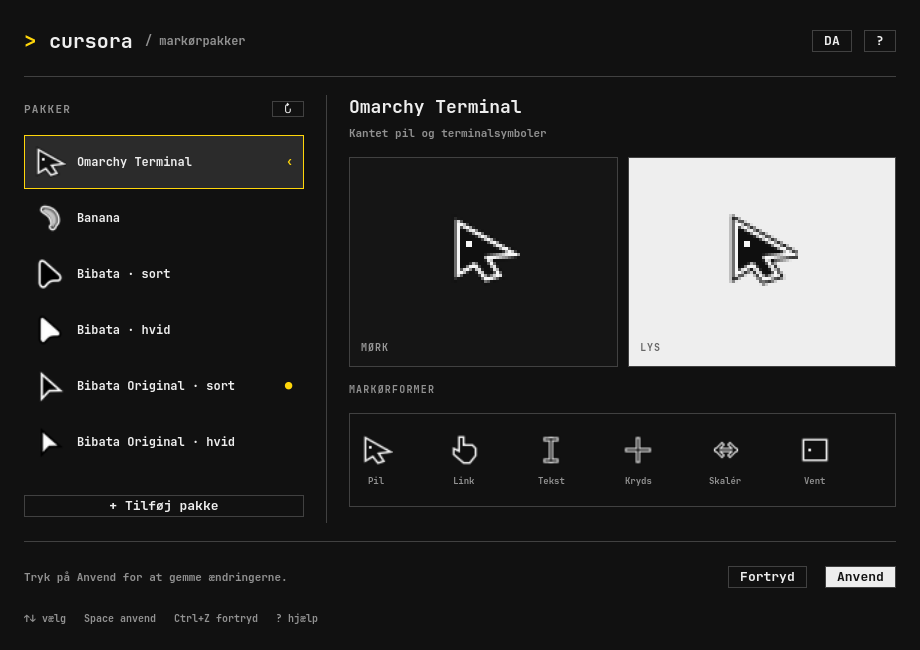
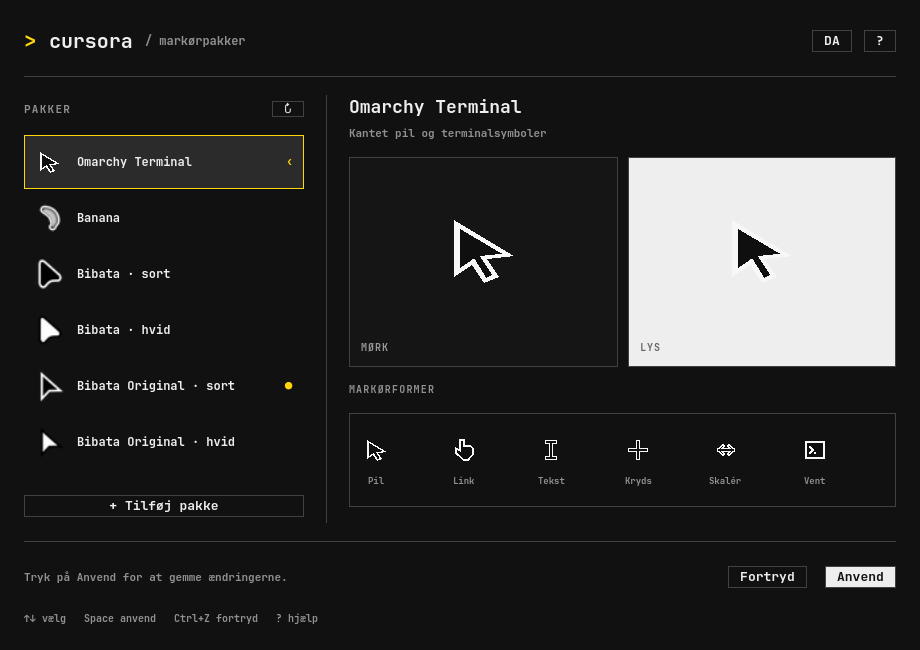
Sharpen Omarchy Terminal cursor outlines

diff --git a/src/Main.qml b/src/Main.qml
@@ -25,6 +25,7 @@ ApplicationWindow {
 
     function titleFor(id) { return (translator.language, backend.themeTitle(id)); }
     function descriptionFor(id) { return (translator.language, backend.themeDescription(id)); }
+    function isTerminalPack(id) { return id === "Cursora-Omarchy-Terminal"; }
     function applySelection() {
         if (busy || themeList.count === 0) return;
         busy = true;
@@ -176,7 +177,8 @@ ApplicationWindow {
                                 Image {
                                     Layout.preferredWidth: 32; Layout.preferredHeight: 32
                                     source: backend.preview(row.modelData.id, "left_ptr", row.modelData.nativeSize)
-                                    fillMode: Image.PreserveAspectFit
+                                    fillMode: win.isTerminalPack(row.modelData.id) ? Image.Pad : Image.PreserveAspectFit
+                                    smooth: !win.isTerminalPack(row.modelData.id)
                                 }
                                 Label {
                                     text: win.titleFor(row.modelData.id)
@@ -228,12 +230,13 @@ ApplicationWindow {
                                 Image {
                                     anchors.centerIn: parent
                                     anchors.verticalCenterOffset: -12
-                                    readonly property int magnification: Math.max(1, Math.min(3,
+                                    readonly property int magnification: win.isTerminalPack(backend.selected) ? 1 : Math.max(1, Math.min(3,
                                         Math.floor((parent.height - 40) / Math.max(1, implicitHeight)),
                                         Math.floor((parent.width - 16) / Math.max(1, implicitWidth))))
                                     width: implicitWidth * magnification
                                     height: implicitHeight * magnification
-                                    source: backend.preview(backend.selected, "left_ptr", backend.themeSize(backend.selected))
+                                    source: backend.preview(backend.selected, "left_ptr", backend.themeSize(backend.selected)
+                                        * (win.isTerminalPack(backend.selected) ? 3 : 1))
                                     smooth: false
                                 }
                                 Label {
@@ -258,7 +261,13 @@ ApplicationWindow {
                                 ColumnLayout {
                                     required property var modelData
                                     Layout.fillWidth: true; spacing: 9
-                                    Image { Layout.alignment: Qt.AlignHCenter; Layout.preferredWidth: 32; Layout.preferredHeight: 32; source: backend.preview(backend.selected, modelData.shape, backend.themeSize(backend.selected)); fillMode: Image.PreserveAspectFit }
+                                    Image {
+                                        Layout.alignment: Qt.AlignHCenter
+                                        Layout.preferredWidth: 32; Layout.preferredHeight: 32
+                                        source: backend.preview(backend.selected, modelData.shape, backend.themeSize(backend.selected))
+                                        fillMode: win.isTerminalPack(backend.selected) ? Image.Pad : Image.PreserveAspectFit
+                                        smooth: !win.isTerminalPack(backend.selected)
+                                    }
                                     Label { text: modelData.label; Layout.alignment: Qt.AlignHCenter; color: win.quietColor; font.pixelSize: 9 }
                                 }
                             }

diff --git a/src/omarchycursor.cpp b/src/omarchycursor.cpp
@@ -23,12 +23,16 @@ void line(QPainterPath &path, std::initializer_list<QPointF> points) {
     for (; point != points.end(); ++point) path.lineTo(*point);
 }
 
-QPainterPath arrow() {
-    QPainterPath path;
-    line(path, {{4, 4}, {20, 13}, {12, 14}, {16, 20},
-                {13, 21}, {9, 16}, {4, 19}, {4, 4}});
-    path.closeSubpath();
-    return path;
+void drawArrow(QPainter &painter) {
+    // Two filled silhouettes give the pointer a single opaque outline.
+    // A stroked outline would put soft fringes on both sides of the edge.
+    QPainterPath outline, body;
+    line(outline, {{2, 2}, {22, 14}, {13, 15}, {17, 21},
+                   {12, 23}, {8, 17}, {2, 21}, {2, 2}});
+    line(body, {{4, 5}, {18, 13.25}, {10.5, 14}, {14.75, 20.25},
+                {12.75, 21.25}, {8.75, 14.75}, {4, 18}, {4, 5}});
+    painter.fillPath(outline, Paper);
+    painter.fillPath(body, Ink);
 }
 
 void drawGlyph(QPainter &painter, const QPainterPath &path, bool filled = false) {
@@ -36,9 +40,7 @@ void drawGlyph(QPainter &painter, const QPainterPath &path, bool filled = false)
         return QPen(color, width, Qt::SolidLine, Qt::SquareCap, Qt::MiterJoin);
     };
     painter.setBrush(Qt::NoBrush);
-    painter.setPen(pen(Ink, filled ? 4.4 : 4.6));
-    painter.drawPath(path);
-    painter.setPen(pen(Paper, filled ? 2.8 : 3.2));
+    painter.setPen(pen(Paper, 3.2));
     painter.drawPath(path);
     painter.setPen(filled ? QPen(Qt::NoPen) : pen(Ink, 1.2));
     if (filled) painter.setBrush(Ink);
@@ -58,7 +60,7 @@ QPainterPath resizeGlyph(int angle, bool both) {
 
 QPoint logicalHotspot(const Kind &kind) {
     if (kind == "left_ptr" || kind == "context-menu" || kind == "copy" ||
-        kind == "alias" || kind == "help" || kind == "progress") return {4, 4};
+        kind == "alias" || kind == "help" || kind == "progress") return {2, 2};
     if (kind == "hand2") return {9, 3};
     return {12, 12};
 }
@@ -67,13 +69,12 @@ QImage render(const Kind &kind, int size, int frame) {
     QImage image(size, size, QImage::Format_ARGB32_Premultiplied);
     image.fill(Qt::transparent);
     QPainter painter(&image);
-    painter.setRenderHint(QPainter::Antialiasing);
+    painter.setRenderHint(QPainter::Antialiasing, false);
     const qreal scale = qreal(size) / BaseSize;
     painter.scale(scale, scale);
     QPainterPath path;
     if (kind == "left_ptr") {
-        drawGlyph(painter, arrow(), true);
-        painter.fillRect(QRectF(6, 9, 2, 2), Paper);
+        drawArrow(painter);
     } else if (kind == "hand2" || kind == "grab" || kind == "grabbing") {
         if (kind == "hand2") {
             line(path, {{9, 3}, {11, 3}, {11, 9}, {18, 9}, {20, 11}, {20, 16},
@@ -113,14 +114,18 @@ QImage render(const Kind &kind, int size, int frame) {
         if (kind == "progress") {
             painter.save();
             painter.scale(.66, .66);
-            drawGlyph(painter, arrow(), true);
+            drawArrow(painter);
             painter.restore();
             painter.translate(12, 12);
             painter.scale(.45, .45);
         }
         path.addRect(QRectF(4, 5, 16, 14));
         drawGlyph(painter, path, true);
-        painter.fillRect(QRectF(7 + 3 * (frame % 4), 11, 2, 2), Paper);
+        QPainterPath prompt;
+        line(prompt, {{7, 9}, {10, 12}, {7, 15}});
+        painter.setPen(QPen(Paper, 1.5, Qt::SolidLine, Qt::SquareCap, Qt::MiterJoin));
+        painter.drawPath(prompt);
+        painter.fillRect(QRectF(11 + 2 * frame, 14, 2, 2), Paper);
     } else if (kind == "not-allowed" || kind == "zoom-in" || kind == "zoom-out") {
         if (kind == "not-allowed") {
             path.addRect(QRectF(5, 5, 14, 14));
@@ -143,7 +148,7 @@ QImage render(const Kind &kind, int size, int frame) {
     } else {
         painter.save();
         painter.scale(.75, .75);
-        drawGlyph(painter, arrow(), true);
+        drawArrow(painter);
         painter.restore();
         path.addRect(QRectF(13, 13, 8, 8));
         drawGlyph(painter, path, true);
@@ -163,6 +168,17 @@ QImage render(const Kind &kind, int size, int frame) {
         }
         painter.setPen(QPen(Paper, 1));
         painter.drawPath(badge);
+    }
+    painter.end();
+    // Fractional transforms in the small badges can still leave partial
+    // coverage. Snap it to the same two solid inks as the main pointer.
+    for (int y = 0; y < size; ++y) {
+        auto *row = reinterpret_cast<QRgb *>(image.scanLine(y));
+        for (int x = 0; x < size; ++x) {
+            const QRgb pixel = row[x];
+            const int alpha = qAlpha(pixel);
+            row[x] = alpha < 128 ? 0 : qRed(pixel) * 2 >= alpha ? Paper.rgba() : Ink.rgba();
+        }
     }
     return image;
 }

diff --git a/tests/check_packs.py b/tests/check_packs.py
@@ -73,7 +73,9 @@ for theme, pack in packs.items():
                 nominal, _, width, height, xhot, yhot, delay = meta
                 assert nominal == width == height and 0 <= xhot < width and 0 <= yhot < height
                 assert any(pixel >> 24 for pixel in pixels), f'Empty image: {cursor}'
-                assert all(((p >> 16) & 255) == ((p >> 8) & 255) == (p & 255) for p in pixels)
+                assert set(pixels) <= {0x00000000, 0xff0f0f0f, 0xfff7f7f7}, f'Soft edge in {cursor} at {nominal}px'
+                if cursor.name == 'left_ptr':
+                    assert pixels[yhot * width + xhot] >> 24 == 255, f'Invisible click tip at {nominal}px'
             if cursor.name in ('watch', 'progress'):
                 animation = [(meta[-1], pixels.tobytes()) for meta, pixels in images if meta[0] == native]
                 assert len(animation) == 4 and len(set(animation)) == 4 and all(delay > 0 for delay, _ in animation)

diff --git a/src/main.cpp b/src/main.cpp
@@ -27,7 +27,7 @@ int main(int argc, char *argv[]) {
     }
     QGuiApplication app(argc, argv);
     app.setApplicationName("cursora");
-    app.setApplicationVersion("0.4.0");
+    app.setApplicationVersion("0.4.1");
     app.setDesktopFileName("cursora");
     app.setWindowIcon(QIcon::fromTheme("cursora"));
     QQuickStyle::setStyle("Material");
